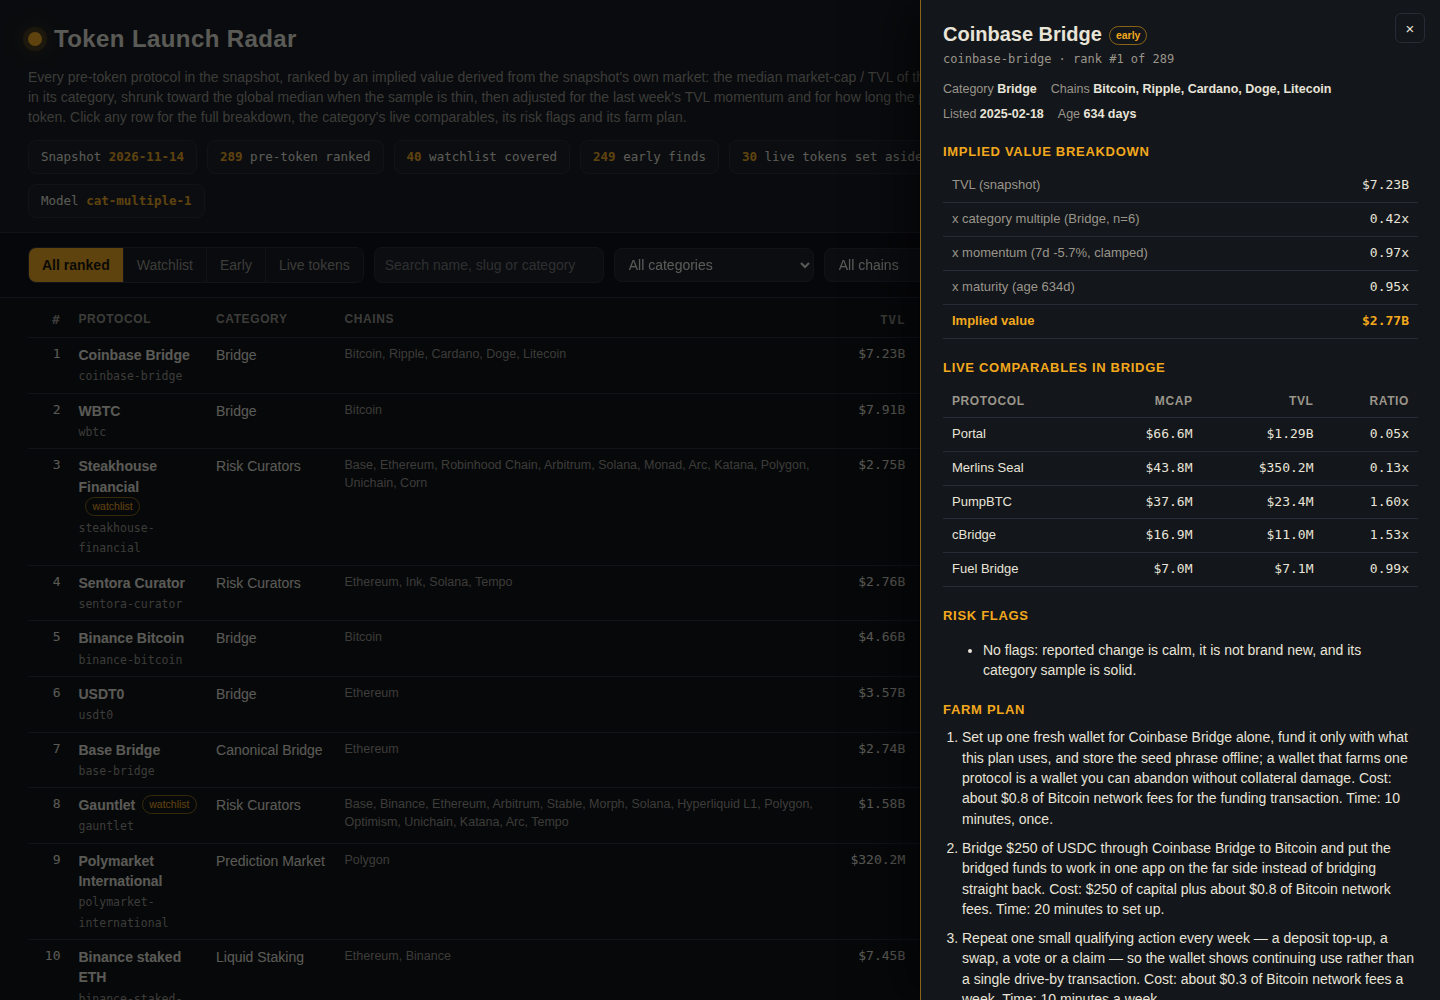
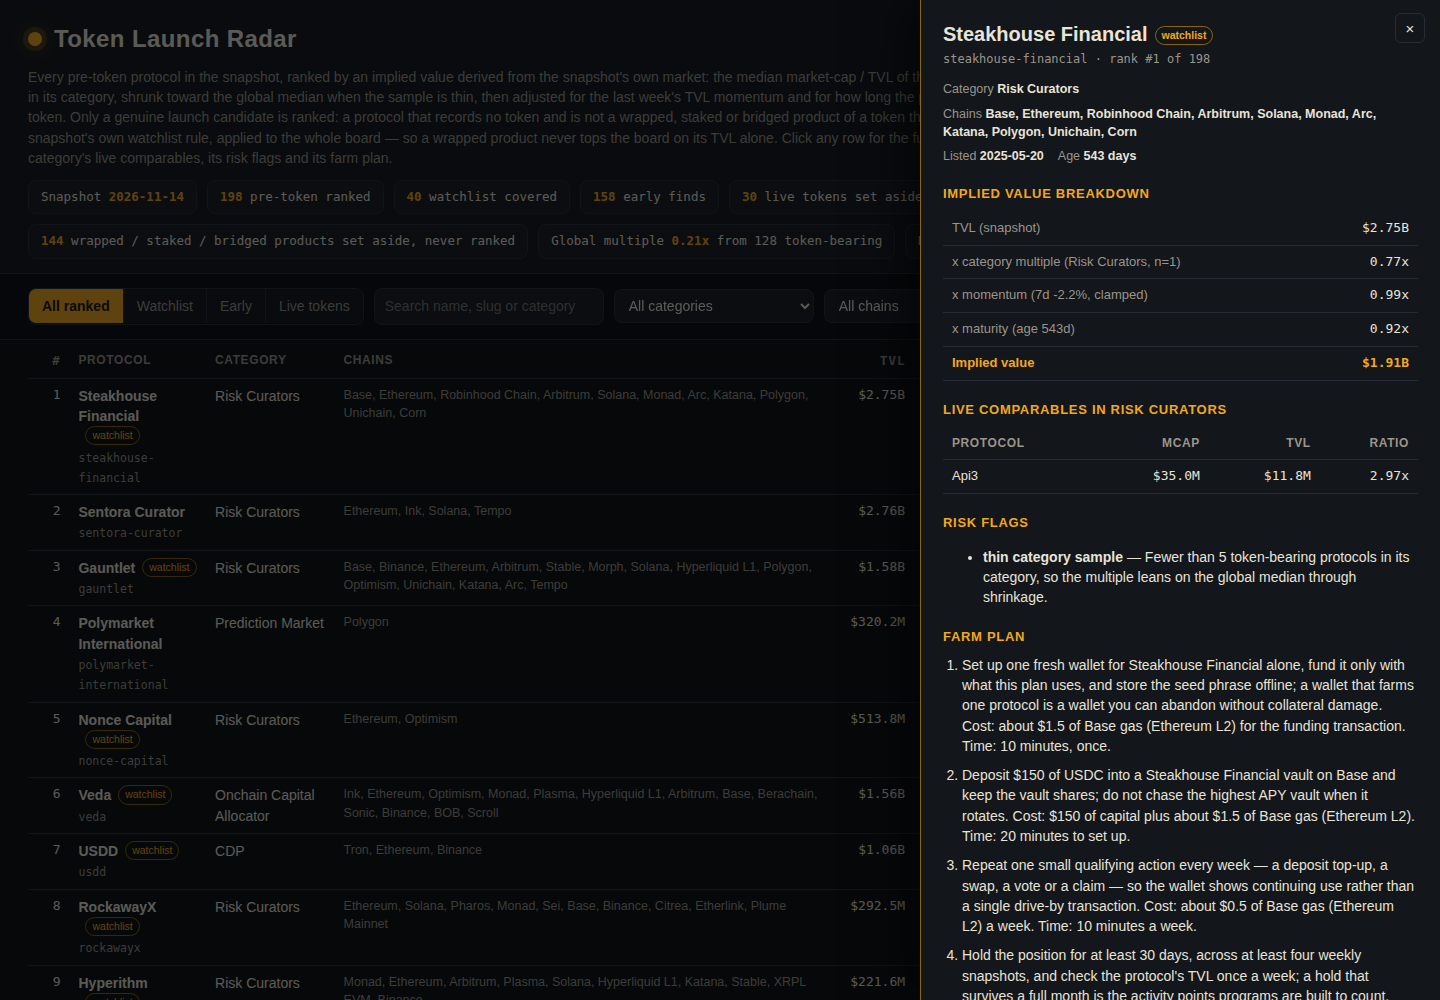
Token launch radar v2: rank only genuine launch candidates
Apply the snapshot's own watchlist eligibility rule to the whole board:
a protocol is rankable only when it records no token and is not a
wrapped, staked or bridged product of a token that already trades
(excluded categories Bridge/Canonical Bridge/Liquid Staking/Liquid
Restaking/Restaked BTC/CEX, wrapped/staked/staking names, versioned
names, exchange-named). v1 topped the board with Coinbase Bridge,
WBTC, Binance Bitcoin, USDT0 and Binance staked ETH — products whose
token plainly exists — priced on TVL alone. v2 sets 144 such protocols
aside (counted in the dashboard, never ranked) and ranks 198 genuine
candidates: 40 watchlist + 158 early. Model formula unchanged
(cat-multiple-2); board, detail and filtered screenshots re-taken
from the new page.

diff --git a/lib/model.ts b/lib/model.ts
@@ -14,6 +14,12 @@
 //   maturity  = 0.75 + 0.45 x min(age_days, 1460) / 1460           (unknown age: 365 days)
 //   implied   = round(TVL x multiple x momentum x maturity)
 //
+// A row is only rankable when the protocol is a genuine launch candidate by the snapshot's
+// own watchlist rule: it records no token, and it is not a wrapped, staked or bridged product
+// of a token that already trades — the rule that keeps WBTC, Binance staked ETH and USDT0 off
+// the watchlist. The rule is applied to the whole board, not just the watchlist: a wrapped
+// product's "implied value" would price a token that already exists, so it is set aside
+// (counted in the dashboard, never ranked) instead of topping the board on its TVL alone.
 // No protocol name is ever special-cased: one function scores every row, and every row
 // carries its audit trail (the multiple used, the sample behind it, both adjustments), so
 // the board can be re-derived from the snapshot by hand.
@@ -42,7 +48,7 @@ export interface Snapshot {
 }
 
 /** The model's stated constants: the dashboard prints them and the audit trail uses them. */
-export const MODEL_VERSION = 'cat-multiple-1';
+export const MODEL_VERSION = 'cat-multiple-2';
 export const SHRINK_K = 4;
 export const RATIO_FLOOR = 0.001;
 export const RATIO_CAP = 10;
@@ -57,6 +63,16 @@ export const UNKNOWN_AGE_DAYS = 365;
 export const THIN_SAMPLE = 5;
 /** How many live-token protocols the dashboard's Live view carries, by market cap. */
 export const LIVE_ROWS = 30;
+/**
+ * The watchlist's own eligibility rule, from the snapshot's documentation: categories that
+ * are a wrapped, staked or bridged product of a token that already trades, or an exchange
+ * itself, never name a launch candidate. The board applies the same rule to every row.
+ */
+export const EXCLUDED_CATEGORIES = ['Bridge', 'Canonical Bridge', 'Liquid Staking', 'Liquid Restaking', 'Restaked BTC', 'CEX'];
+/** Exchange names: a protocol beginning with one is the exchange's own product. */
+export const EXCHANGE_PREFIXES = ['Binance', 'Coinbase', 'Bybit', 'Kraken', 'Bitget', 'OKX', 'Bitfinex', 'Gemini'];
+/** A whole word wrapped, staked or staking anywhere in the name, in any case. */
+const WRAPPED_WORD = /\bwrapped\b|\bstaked\b|\bstaking\b/i;
 
 /** What the token-bearing market says about one category. */
 export interface CategoryMarket {
@@ -124,6 +140,9 @@ export interface RadarData {
   board_size: number;
   early_size: number;
   live_size: number;
+  /** Pre-token protocols set aside as wrapped/staked/bridged products, by the rule's reason. */
+  set_aside_count: number;
+  set_aside_reasons: { reason: string; count: number }[];
   categories: CategoryMarket[];
   rows: RadarRow[];
   live: LiveRow[];
@@ -165,9 +184,25 @@ export function isPreToken(p: SnapshotProtocol): boolean {
   return p.mcap_usd === null && p.gecko_id === null && p.symbol === null;
 }
 
-/** Whether a protocol is one the board may rank: pre-token, not an exchange, not a versioned pool. */
+/**
+ * Why a pre-token protocol is not a launch candidate, or null when it is one: the
+ * snapshot's watchlist rule, applied as a function of the protocol's own record — its
+ * category, its name's words and prefix — never of its name as a special case. A token
+ * the record does not carry is still "records no token", never "has none": the rule only
+ * removes products the record itself shows are wrapped, staked, bridged or exchange-run.
+ */
+export function eligibilityReason(p: SnapshotProtocol): string | null {
+  if (!isPreToken(p)) return 'token-recorded';
+  if (EXCLUDED_CATEGORIES.includes(p.category ?? '')) return `category-${p.category}`;
+  if (VERSIONED.test(p.name)) return 'versioned-name';
+  if (WRAPPED_WORD.test(p.name)) return 'wrapped-or-staked-name';
+  if (EXCHANGE_PREFIXES.some((e) => p.name === e || p.name.startsWith(`${e} `))) return 'exchange-named';
+  return null;
+}
+
+/** Whether a protocol is one the board may rank: pre-token and a genuine launch candidate. */
 export function isRankable(p: SnapshotProtocol): boolean {
-  return isPreToken(p) && p.category !== 'CEX' && !VERSIONED.test(p.name);
+  return eligibilityReason(p) === null;
 }
 
 /** A token-bearing protocol with both figures the ratio needs. */
@@ -345,10 +380,27 @@ export function farmSteps(p: SnapshotProtocol, age: number | null): string[] {
 }
 
 /** The ranked board: every rankable pre-token protocol, watchlist rows never dropped. */
-export function buildBoard(snapshot: Snapshot): { board: BoardRow[]; markets: CategoryMarket[]; global: number; sample: number } {
+export function buildBoard(snapshot: Snapshot): {
+  board: BoardRow[];
+  markets: CategoryMarket[];
+  global: number;
+  sample: number;
+  setAside: { reason: string; count: number }[];
+} {
   const { global, sample, markets } = categoryMarkets(snapshot);
   const watch = new Set(snapshot.watchlist);
   const chosen = new Map<string, SnapshotProtocol>();
+  // The set-aside count is the discipline made visible: pre-token by the record, but a
+  // wrapped, staked or bridged product of a token that already trades, so never ranked.
+  const aside = new Map<string, number>();
+  for (const p of snapshot.protocols) {
+    if (!isPreToken(p)) continue;
+    const reason = eligibilityReason(p);
+    if (reason !== null) aside.set(reason, (aside.get(reason) ?? 0) + 1);
+  }
+  const setAside = [...aside.entries()]
+    .sort((a, b) => b[1] - a[1] || (a[0] < b[0] ? -1 : 1))
+    .map(([reason, count]) => ({ reason, count }));
   for (const p of snapshot.protocols) if (isRankable(p)) chosen.set(p.slug, p);
   // Coverage is the gate's row: a watchlist slug stays on the board even if a future
   // snapshot makes it unrankable, scored by the same function as every other row.
@@ -387,7 +439,7 @@ export function buildBoard(snapshot: Snapshot): { board: BoardRow[]; markets: Ca
     risk_flags: riskFlags(s.p, s.v.age, s.v.sample),
     farm_steps: farmSteps(s.p, s.v.age),
   }));
-  return { board, markets, global, sample };
+  return { board, markets, global, sample, setAside };
 }
 
 /** The live-token protocols, by market cap: shown at market value, kept off the ranked board. */
@@ -410,8 +462,9 @@ export function liveRows(snapshot: Snapshot): LiveRow[] {
 
 /** Everything the dashboard renders, from the snapshot. */
 export function buildRadar(snapshot: Snapshot): { board: BoardRow[]; radar: RadarData } {
-  const { board, markets, global, sample } = buildBoard(snapshot);
+  const { board, markets, global, sample, setAside } = buildBoard(snapshot);
   const live = liveRows(snapshot);
+  const setAsideCount = setAside.reduce((n, r) => n + r.count, 0);
   const radar: RadarData = {
     as_of: snapshot.as_of,
     source: snapshot.source,
@@ -423,13 +476,18 @@ export function buildRadar(snapshot: Snapshot): { board: BoardRow[]; radar: Rada
       `to [0.001x, 10x] before the median, so one 400x outlier cannot price a whole category; the comparables ` +
       `tables show actual ratios), shrunk toward the global median of ${global}x by sample size ` +
       `((n x category + 4 x global) / (n + 4)). ` +
-      `Momentum = 1 + clamp(7d TVL change, -50%, +80%) / 100 x 0.6. Maturity = 0.75 + 0.45 x min(age, 1460d) / 1460.`,
+      `Momentum = 1 + clamp(7d TVL change, -50%, +80%) / 100 x 0.6. Maturity = 0.75 + 0.45 x min(age, 1460d) / 1460. ` +
+      `Only a genuine launch candidate is ranked: a protocol that records no token and is not a wrapped, ` +
+      `staked or bridged product of a token that already trades — the snapshot's own watchlist rule, applied ` +
+      `to the whole board. ${setAsideCount} pre-token protocols are set aside by that rule and never ranked.`,
     global_multiple: global,
     token_bearing_sample: sample,
     watchlist_size: snapshot.watchlist.length,
     board_size: board.length,
     early_size: board.filter((r) => !r.watchlist).length,
     live_size: live.length,
+    set_aside_count: setAsideCount,
+    set_aside_reasons: setAside,
     categories: markets,
     rows: board.map((r) => ({ ...r, segment: r.watchlist ? ('watchlist' as const) : ('early' as const) })),
     live,
@@ -488,6 +546,11 @@ export function boardIssue(board: BoardRow[], snapshot: Snapshot): string | null
   for (const r of board) if (!known.has(r.slug)) return `slug ${r.slug} is not in the snapshot`;
   const missing = snapshot.watchlist.filter((s) => !slugs.has(s));
   if (missing.length > 0) return `the board misses ${missing.length} watchlist slugs: ${missing.slice(0, 5).join(', ')}`;
+  const index = new Map(snapshot.protocols.map((p) => [p.slug, p]));
+  for (const r of board) {
+    const reason = eligibilityReason(index.get(r.slug)!);
+    if (reason !== null) return `${r.slug} is on the board but not a launch candidate (${reason})`;
+  }
   if (board.filter((r) => !r.watchlist).length < 60) return 'fewer than 60 non-watchlist rows';
   for (let i = 0; i < board.length; i++) if (board[i]!.rank !== i + 1) return `rank ${i + 1} is ${board[i]!.rank}`;
   for (let i = 1; i < board.length; i++) if (board[i]!.implied_value_usd > board[i - 1]!.implied_value_usd) return `row ${i + 1} outranks row ${i} on implied value`;

diff --git a/dashboard/index.html b/dashboard/index.html
@@ -12,7 +12,10 @@
   <p class="tag">Every pre-token protocol in the snapshot, ranked by an implied value derived from the
   snapshot's own market: the median market-cap / TVL of the token-bearing protocols in its category,
   shrunk toward the global median when the sample is thin, then adjusted for the last week's TVL
-  momentum and for how long the protocol has run without a token. Click any row for the full
+  momentum and for how long the protocol has run without a token. Only a genuine launch candidate
+  is ranked: a protocol that records no token and is not a wrapped, staked or bridged product of
+  a token that already trades — the snapshot's own watchlist rule, applied to the whole board —
+  so a wrapped product never tops the board on its TVL alone. Click any row for the full
   breakdown, the category's live comparables, its risk flags and its farm plan.</p>
   <div id="stats" class="stats"></div>
 </header>

diff --git a/dashboard/app.js b/dashboard/app.js
@@ -60,6 +60,7 @@
     '<span class="stat"><b>' + D.watchlist_size + '</b> watchlist covered</span>' +
     '<span class="stat"><b>' + D.early_size + '</b> early finds</span>' +
     '<span class="stat"><b>' + D.live_size + '</b> live tokens set aside</span>' +
+    '<span class="stat"><b>' + D.set_aside_count + '</b> wrapped / staked / bridged products set aside, never ranked</span>' +
     '<span class="stat">Global multiple <b>' + mult(D.global_multiple) + '</b> from ' + D.token_bearing_sample + ' token-bearing</span>' +
     '<span class="stat">Model <b>' + esc(D.model_version) + '</b></span>';
   $('modelSummary').textContent = D.model_summary;
